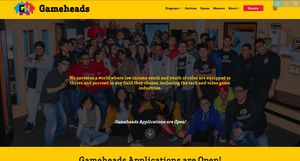
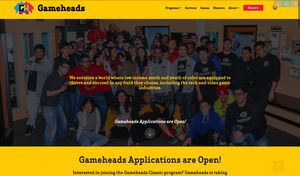
popups

diff --git a/index.html b/index.html
@@ -452,13 +452,31 @@ choose, including the tech and video game industries.</p>
     </div>
 </section>
 
-<div class="modal mbr-popup cid-rKtl5DJrHD fade" tabindex="-1" role="dialog" data-on-timer-delay="3" data-overlay-color="#465052" data-overlay-opacity="1" id="mbr-popup-4s" aria-hidden="true">
+<style>
+        * {
+          box-sizing: border-box;
+        }
+        
+        .row {
+          display: flex;
+        }
+        
+        /* Create three equal columns that sits next to each other */
+        .column {
+          flex: 33.33%;
+          padding: 5px;
+        }
+</style>
+
+
+
+<div class="modal mbr-popup cid-rKtl5DJrHD fade" tabindex="1" role="dialog" data-on-timer-delay="4" data-overlay-color="#465052" data-overlay-opacity="1" id="mbr-popup-4s" aria-hidden="true">
         <div class="modal-dialog modal-dialog-centered" role="document">
             <div class="modal-content">
                 <div class="modal-header pb-0">
                     <h5 class="modal-title mbr-fonts-style display-5">ON SALE NOW</h5>
                     <button type="button" class="close" data-dismiss="modal" aria-label="Close">
-                        <svg version="1.1" xmlns="http://www.w3.org/2000/svg" width="24" height="24" viewBox="0 0 32 32" fill="currentColor">
+                        <svg version="1.1" xmlns="http://www.w3.org/2000/svg" width="60" height="60" viewBox="0 0 32 32" fill="currentColor">
                             <path d="M31.797 0.191c-0.264-0.256-0.686-0.25-0.942 0.015l-13.328 13.326c-0.598 0.581 0.342 1.543 0.942 0.942l13.328-13.326c0.27-0.262 0.27-0.695 0-0.957zM14.472 17.515c-0.264-0.256-0.686-0.25-0.942 0.015l-13.328 13.326c-0.613 0.595 0.34 1.562 0.942 0.942l13.328-13.326c0.27-0.262 0.27-0.695 0-0.957zM1.144 0.205c-0.584-0.587-1.544 0.336-0.942 0.942l30.654 30.651c0.613 0.625 1.563-0.325 0.942-0.942z"></path>
                         </svg>
                     </button>
@@ -469,17 +487,20 @@ choose, including the tech and video game industries.</p>
 
                     <div>
                         <div class="card-img mbr-figure">
-                            <img src="assets/images/promo4-936x936.png" alt="Mobirise" title="">
+                                <div class="row">
+                                        <div class="column">
+                                            <img src="assets/images/promo4-936x936.png" alt="Mobirise" title="">
+                                            <a class="btn btn-md btn-secondary display-4" href="https://gameheads.itch.io/triger">Triger</a>
+                                        </div>
+                                        <div class="column">
+                                            <img src="assets/images/groundz.png" alt="Mobirise" title="">
+                                            <a class="btn btn-md btn-secondary display-4" href="https://gameheads.itch.io/the-groundz">Groundz</a>
+                                        </div>
+                                </div>
                         </div>
-                            
-
-                            
-                        </div>
+                      
                     </div>
-
-                    <div class="modal-footer">
-                        <div class="mbr-section-btn"><a class="btn btn-md btn-secondary display-4" href="https://mobirise.co">Triger</a> <a class="btn btn-md btn-secondary display-4" href="https://mobirise.co">Groundz</a></div>
-                    </div>
+                </div>
                 </div>
             </div>
         </div>

diff --git a/games.html b/games.html
@@ -333,13 +333,29 @@ choose, including the tech and video game industries.</p>
     </div>
 </section>
 
-<div class="modal mbr-popup cid-rKtluERWcl fade" tabindex="-1" role="dialog" data-on-timer-delay="3" data-overlay-color="#465052" data-overlay-opacity="1" id="mbr-popup-4s" aria-hidden="true">
+<style>
+        * {
+          box-sizing: border-box;
+        }
+        
+        .row {
+          display: flex;
+        }
+        
+        /* Create three equal columns that sits next to each other */
+        .column {
+          flex: 33.33%;
+          padding: 5px;
+        }
+</style>
+
+<div class="modal mbr-popup cid-rKtluERWcl fade" tabindex="1" role="dialog" data-on-timer-delay="4" data-overlay-color="#465052" data-overlay-opacity="1" id="mbr-popup-4s" aria-hidden="true">
         <div class="modal-dialog modal-dialog-centered" role="document">
             <div class="modal-content">
                 <div class="modal-header pb-0">
                     <h5 class="modal-title mbr-fonts-style display-5">ON SALE NOW</h5>
                     <button type="button" class="close" data-dismiss="modal" aria-label="Close">
-                        <svg version="1.1" xmlns="http://www.w3.org/2000/svg" width="24" height="24" viewBox="0 0 32 32" fill="currentColor">
+                        <svg version="1.1" xmlns="http://www.w3.org/2000/svg" width="60" height="60" viewBox="0 0 32 32" fill="currentColor">
                             <path d="M31.797 0.191c-0.264-0.256-0.686-0.25-0.942 0.015l-13.328 13.326c-0.598 0.581 0.342 1.543 0.942 0.942l13.328-13.326c0.27-0.262 0.27-0.695 0-0.957zM14.472 17.515c-0.264-0.256-0.686-0.25-0.942 0.015l-13.328 13.326c-0.613 0.595 0.34 1.562 0.942 0.942l13.328-13.326c0.27-0.262 0.27-0.695 0-0.957zM1.144 0.205c-0.584-0.587-1.544 0.336-0.942 0.942l30.654 30.651c0.613 0.625 1.563-0.325 0.942-0.942z"></path>
                         </svg>
                     </button>
@@ -350,17 +366,20 @@ choose, including the tech and video game industries.</p>
 
                     <div>
                         <div class="card-img mbr-figure">
-                            <img src="assets/images/promo4-936x936.png" alt="Mobirise" title="">
+                                <div class="row">
+                                        <div class="column">
+                                            <img src="assets/images/promo4-936x936.png" alt="Mobirise" title="">
+                                            <a class="btn btn-md btn-secondary display-4" href="https://gameheads.itch.io/triger">Triger</a>
+                                        </div>
+                                        <div class="column">
+                                            <img src="assets/images/groundz.png" alt="Mobirise" title="">
+                                            <a class="btn btn-md btn-secondary display-4" href="https://gameheads.itch.io/the-groundz">Groundz</a>
+                                        </div>
+                                </div>
                         </div>
-                            
-
-                            
-                        </div>
+                      
                     </div>
-
-                    <div class="modal-footer">
-                        <div class="mbr-section-btn"><a class="btn btn-md btn-secondary display-4" href="https://mobirise.co">Triger</a> <a class="btn btn-md btn-secondary display-4" href="https://mobirise.co">Groundz</a></div>
-                    </div>
+                </div>
                 </div>
             </div>
         </div>

diff --git a/services.html b/services.html
@@ -293,13 +293,13 @@ choose, including the tech and video game industries.</p>
     </div>
 </section>
 
-<div class="modal mbr-popup cid-rKtluFy00Y fade" tabindex="-1" role="dialog" data-on-timer-delay="3" data-overlay-color="#465052" data-overlay-opacity="1" id="mbr-popup-4s" aria-hidden="true">
+<div class="modal mbr-popup cid-rKtluFy00Y fade" tabindex="1" role="dialog" data-on-timer-delay="6" data-overlay-color="#465052" data-overlay-opacity="1" id="mbr-popup-4s" aria-hidden="true">
         <div class="modal-dialog modal-dialog-centered" role="document">
             <div class="modal-content">
                 <div class="modal-header pb-0">
                     <h5 class="modal-title mbr-fonts-style display-5">ON SALE NOW</h5>
                     <button type="button" class="close" data-dismiss="modal" aria-label="Close">
-                        <svg version="1.1" xmlns="http://www.w3.org/2000/svg" width="24" height="24" viewBox="0 0 32 32" fill="currentColor">
+                        <svg version="1.1" xmlns="http://www.w3.org/2000/svg" width="60" height="60" viewBox="0 0 32 32" fill="currentColor">
                             <path d="M31.797 0.191c-0.264-0.256-0.686-0.25-0.942 0.015l-13.328 13.326c-0.598 0.581 0.342 1.543 0.942 0.942l13.328-13.326c0.27-0.262 0.27-0.695 0-0.957zM14.472 17.515c-0.264-0.256-0.686-0.25-0.942 0.015l-13.328 13.326c-0.613 0.595 0.34 1.562 0.942 0.942l13.328-13.326c0.27-0.262 0.27-0.695 0-0.957zM1.144 0.205c-0.584-0.587-1.544 0.336-0.942 0.942l30.654 30.651c0.613 0.625 1.563-0.325 0.942-0.942z"></path>
                         </svg>
                     </button>
@@ -310,17 +310,20 @@ choose, including the tech and video game industries.</p>
 
                     <div>
                         <div class="card-img mbr-figure">
-                            <img src="assets/images/promo4-936x936.png" alt="Mobirise" title="">
+                                <div class="row">
+                                        <div class="column">
+                                            <img src="assets/images/promo4-936x936.png" alt="Mobirise" title="">
+                                            <a class="btn btn-md btn-secondary display-4" href="https://gameheads.itch.io/triger">Triger</a>
+                                        </div>
+                                        <div class="column">
+                                            <img src="assets/images/groundz.png" alt="Mobirise" title="">
+                                            <a class="btn btn-md btn-secondary display-4" href="https://gameheads.itch.io/the-groundz">Groundz</a>
+                                        </div>
+                                </div>
                         </div>
-                            
-
-                            
-                        </div>
+                      
                     </div>
-
-                    <div class="modal-footer">
-                        <div class="mbr-section-btn"><a class="btn btn-md btn-secondary display-4" href="https://mobirise.co">Triger</a> <a class="btn btn-md btn-secondary display-4" href="https://mobirise.co">Groundz</a></div>
-                    </div>
+                </div>
                 </div>
             </div>
         </div>

diff --git a/mentors.html b/mentors.html
@@ -298,38 +298,6 @@ choose, including the tech and video game industries.</p>
     </div>
 </section>
 
-<div class="modal mbr-popup cid-rKtluHJ164 fade" tabindex="-1" role="dialog" data-on-timer-delay="3" data-overlay-color="#465052" data-overlay-opacity="1" id="mbr-popup-4s" aria-hidden="true">
-        <div class="modal-dialog modal-dialog-centered" role="document">
-            <div class="modal-content">
-                <div class="modal-header pb-0">
-                    <h5 class="modal-title mbr-fonts-style display-5">ON SALE NOW</h5>
-                    <button type="button" class="close" data-dismiss="modal" aria-label="Close">
-                        <svg version="1.1" xmlns="http://www.w3.org/2000/svg" width="24" height="24" viewBox="0 0 32 32" fill="currentColor">
-                            <path d="M31.797 0.191c-0.264-0.256-0.686-0.25-0.942 0.015l-13.328 13.326c-0.598 0.581 0.342 1.543 0.942 0.942l13.328-13.326c0.27-0.262 0.27-0.695 0-0.957zM14.472 17.515c-0.264-0.256-0.686-0.25-0.942 0.015l-13.328 13.326c-0.613 0.595 0.34 1.562 0.942 0.942l13.328-13.326c0.27-0.262 0.27-0.695 0-0.957zM1.144 0.205c-0.584-0.587-1.544 0.336-0.942 0.942l30.654 30.651c0.613 0.625 1.563-0.325 0.942-0.942z"></path>
-                        </svg>
-                    </button>
-                </div>
-
-                <div class="modal-body">
-                    <p class="mbr-text mbr-fonts-style display-7"></p>
-
-                    <div>
-                        <div class="card-img mbr-figure">
-                            <img src="assets/images/promo4-936x936.png" alt="Mobirise" title="">
-                        </div>
-                            
-
-                            
-                        </div>
-                    </div>
-
-                    <div class="modal-footer">
-                        <div class="mbr-section-btn"><a class="btn btn-md btn-secondary display-4" href="https://mobirise.co">Triger</a> <a class="btn btn-md btn-secondary display-4" href="https://mobirise.co">Groundz</a></div>
-                    </div>
-                </div>
-            </div>
-        </div>
-
 
   <script src="assets/web/assets/jquery/jquery.min.js"></script>
   <script src="assets/popper/popper.min.js"></script>
